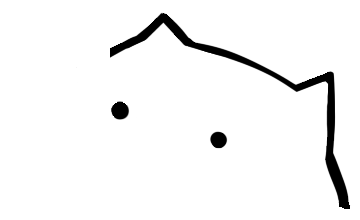
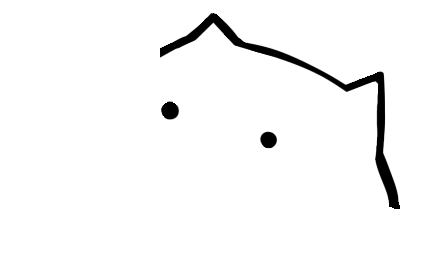
fix(contact): re-crop Bongo Cat PNG parts to 447x262 matching group.svg

diff --git a/src/components/Contact.tsx b/src/components/Contact.tsx
@@ -43,7 +43,7 @@ function BongoCat({ pawState }: { pawState: 'idle' | 'left' | 'right' }) {
 
   return (
     <div
-      className="absolute -top-[48px] sm:-top-[56px] right-2 sm:right-6 z-30 pointer-events-none select-none w-[110px] sm:w-[135px] aspect-[360/220]"
+      className="absolute -top-[52px] sm:-top-[62px] right-2 sm:right-6 z-30 pointer-events-none select-none w-[130px] sm:w-[160px] aspect-[447/262]"
       aria-hidden="true"
     >
       <div className="relative w-full h-full">
